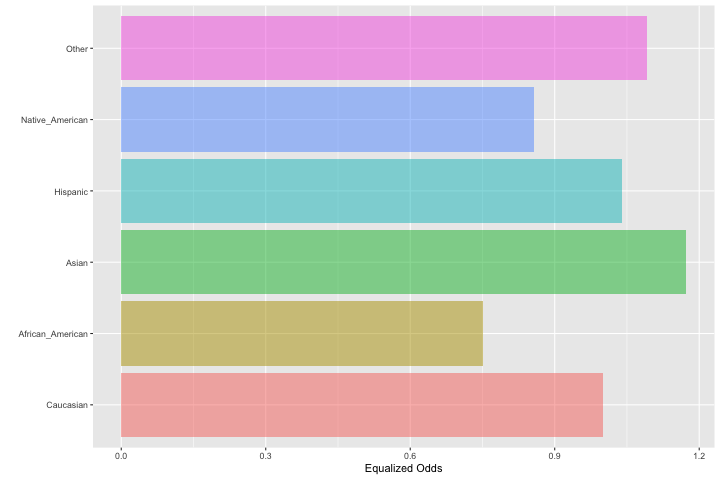
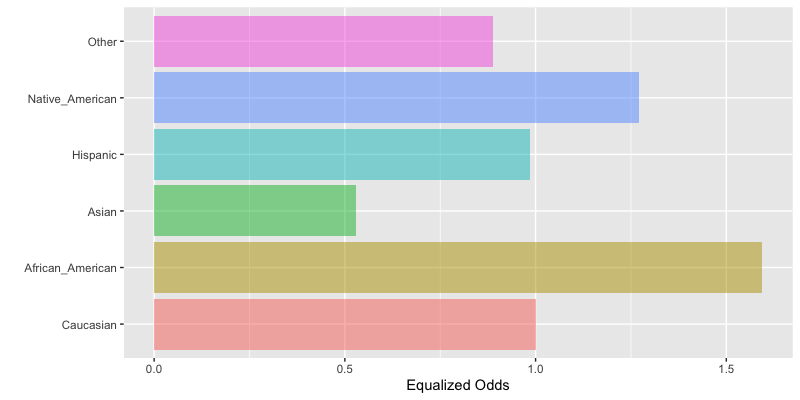
doc: Documentation updates for 1.2.1

diff --git a/README.md b/README.md
@@ -73,8 +73,9 @@ The data already contains all variables necessary to run all parity metrics. In 
 All fairness metrics are implemented as separate functions with the same structure of inputs including the outcome variable, model predictions and a sensitive group feature.
 
 ```r
+compas$Two_yr_Recidivism_01 <- ifelse(compas$Two_yr_Recidivism == 'yes', 1, 0)
 equal_odds(data    = compas,
-           outcome = 'Two_yr_Recidivism',
+           outcome = 'Two_yr_Recidivism_01',
            probs   = 'probability',
            group   = 'ethnicity',
            cutoff  = 0.5,
@@ -85,12 +86,12 @@ equal_odds(data    = compas,
 
 ```
 #>                Caucasian African_American     Asian Hispanic
-#> Sensitivity       0.7783           0.5845    0.9130   0.8094
-#> Equalized odds    1.0000           0.7511    1.1731   1.0399
+#> Sensitivity       0.4720           0.7526    0.2500   0.4656
+#> Equalized odds    1.0000           1.5943    0.5296   0.9864
 #> Group size     2103.0000        3175.0000   31.0000 509.0000
 #>                Native_American     Other
-#> Sensitivity             0.6667    0.8493
-#> Equalized odds          0.8566    1.0912
+#> Sensitivity             0.6000    0.4194
+#> Equalized odds          1.2711    0.8884
 #> Group size             11.0000  343.0000
 ```
 
@@ -107,7 +108,17 @@ To cite this package in scientific publications, please use the following query 
 ```r
 citation('fairness')
 ```
-> Nikita Kozodoi and Tibor V. Varga (2020). fairness: Algorithmic Fairness Metrics. R package version 1.2.0.
+> Nikita Kozodoi and Tibor V. Varga (2020). fairness: Algorithmic Fairness Metrics. R package version 1.2.1.
+
+```
+ @Manual{,
+    title = {fairness: Algorithmic Fairness Metrics},
+    author = {Nikita Kozodoi and Tibor {V. Varga}},
+    year = {2021},
+    note = {R package version 1.2.1},
+    url = {https://CRAN.R-project.org/package=fairness},
+  }
+```
 
 
 ## Dependencies
